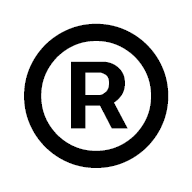
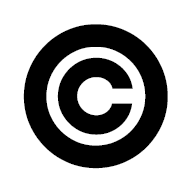
Added newer version of site
+New icon
+New logo
+Tweet embeds
+Reddit embeds

diff --git a/reddit.html b/reddit.html
@@ -1,0 +1,56 @@
+<!DOCTYPE html>
+<html lang="en">
+<link rel="icon" href="icon.png">
+<head>
+  <meta charset="UTF-8">
+  <title>ben.pet</title>
+  <style>
+    body {
+      background-color: #000000;
+      color: #FFFFFF;
+      font-family: "Inter", sans-serif;
+	  -ms-overflow-style: none;
+	  scrollbar-width: none;
+      font-size: 15pt;
+    }
+    .title {
+      position: absolute;
+      top: 0.1em;
+      left: 0.8em;
+      font-size: 15pt;
+    }
+    .posts {
+      font-size: 15pt;
+    }
+    .container {
+      display: flex;
+      flex-direction: column;
+      align-items: center;
+      height: calc(100% - 50pt);
+      padding-top: 15em;
+    }
+    .reddit-embed-bq {
+      max-width: 250px !important;
+      width: 100%;
+      align-self: center;
+    }
+    ::-webkit-scrollbar {
+	    display: none;
+    }
+    .home:link {
+	    text-decoration: none;
+    }
+    .home {
+	    color: white;
+    }
+  </style>
+  <link href="https://fonts.googleapis.com/css2?family=Inter:wght@700&display=swap" rel="stylesheet">
+</head>
+<body>
+  <h1 class="title"><a class="home" href="index.html">BEN.PET&copy;</a></h1>
+  <div class="container">
+    <h1 class="posts">POSTS</h1>
+    <blockquote class="reddit-embed-bq" data-embed-showtitle="true" data-embed-showmedia="false" data-embed-height="345">      <a href="https://www.reddit.com/r/CreditCards/comments/115zio7/recommendation_for_second_credit_card_as_a/j94nv9o/">Comment</a><br> by      <a href="https://www.reddit.com/user/820crew">u/820crew</a> from discussion      <a href="https://www.reddit.com/r/CreditCards/comments/115zio7/recommendation_for_second_credit_card_as_a/">Recommendation for Second Credit Card as a Commuting College Student</a><br> in      <a href="https://www.reddit.com/r/CreditCards/">CreditCards</a>    </blockquote><script async="" src="https://embed.reddit.com/widgets.js" charset="UTF-8"></script>
+  </div>
+</body>
+</html>

diff --git a/tweets.html b/tweets.html
@@ -1,0 +1,57 @@
+<!DOCTYPE html>
+<html lang="en">
+<link rel="icon" href="icon.png">
+<head>
+  <meta charset="UTF-8">
+  <title>ben.pet</title>
+  <style>
+    body {
+      background-color: #000000;
+      color: #FFFFFF;
+      font-family: "Inter", sans-serif;
+	    -ms-overflow-style: none;
+	    scrollbar-width: none;
+      font-size: 15pt;
+    }
+    .title {
+      position: absolute;
+      top: 0.1em;
+      left: 0.8em;
+      font-size: 15pt;
+    }
+    .tweets {
+      font-size: 15pt;
+    }
+    .container {
+      display: flex;
+      flex-direction: column;
+      align-items: center;
+      height: calc(100% - 50pt);
+      padding-top: 15em;
+    }
+    .twitter-tweet {
+      max-width: 250px !important;
+      width: 100%;
+      align-self: center;
+    }
+    ::-webkit-scrollbar {
+	    display: none;
+    }
+    .home:link {
+	    text-decoration: none;
+    }
+    .home {
+	    color: white;
+    }
+  </style>
+  <link href="https://fonts.googleapis.com/css2?family=Inter:wght@700&display=swap" rel="stylesheet">
+</head>
+<body>
+  <h1 class="title"><a class="home" href="index.html">BEN.PET&copy;</a></h1>
+  <div class="container">
+    <h1 class="tweets">TWEETS</h1>
+    <blockquote class="twitter-tweet"><p lang="en" dir="ltr">target dump pt. deux😖 SEND HELP</p>&mdash; beb (@ABlueChicken) <a href="https://twitter.com/ABlueChicken/status/1495907657777094656?ref_src=twsrc%5Etfw">February 21, 2022</a></blockquote> <script async src="https://platform.twitter.com/widgets.js" charset="utf-8"></script>
+    <blockquote class="twitter-tweet"><p lang="en" dir="ltr">currently taking a dump in a target bathroom, send love );</p>&mdash; beb (@ABlueChicken) <a href="https://twitter.com/ABlueChicken/status/1486863106873741313?ref_src=twsrc%5Etfw">January 28, 2022</a></blockquote> <script async src="https://platform.twitter.com/widgets.js" charset="utf-8"></script>
+  </div>
+</body>
+</html>

diff --git a/index.html b/index.html
@@ -1,5 +1,6 @@
 <!DOCTYPE html>
 <html lang="en">
+<link rel="icon" href="icon.png">
 <head>
   <meta charset="UTF-8">
   <title>ben.pet</title>
@@ -8,18 +9,33 @@
       background-color: #000000;
       color: #FFFFFF;
       font-family: "Inter", sans-serif;
+      font-size: 15pt;
     }
     .title {
       position: absolute;
-      top: 0;
-      left: 50px;
-      font-size: 50pt;
+      font-size: 15pt;
+      top: 0.1em;
+      left: 0.8em;
+    }
+    .links {
+	    color: white;
+      text-decoration: none;
+    }
+    .container {
+      display: flex;
+      flex-direction: column;
+      align-items: center;
+      justify-content: center;
+      height: calc(100vh - 1em);
     }
   </style>
   <link href="https://fonts.googleapis.com/css2?family=Inter:wght@700&display=swap" rel="stylesheet">
-  <link rel="icon" href="icon.png">
 </head>
 <body>
-  <h1 class="title">ben.pet&reg;</h1>
+  <h1 class="title">BEN.PET&copy;</h1>
+  <div class="container">
+    <a class="links" href="tweets.html">TWEETS</a>
+    <a class="links" href="reddit.html">REDDIT</a>
+  </div>
 </body>
 </html>
